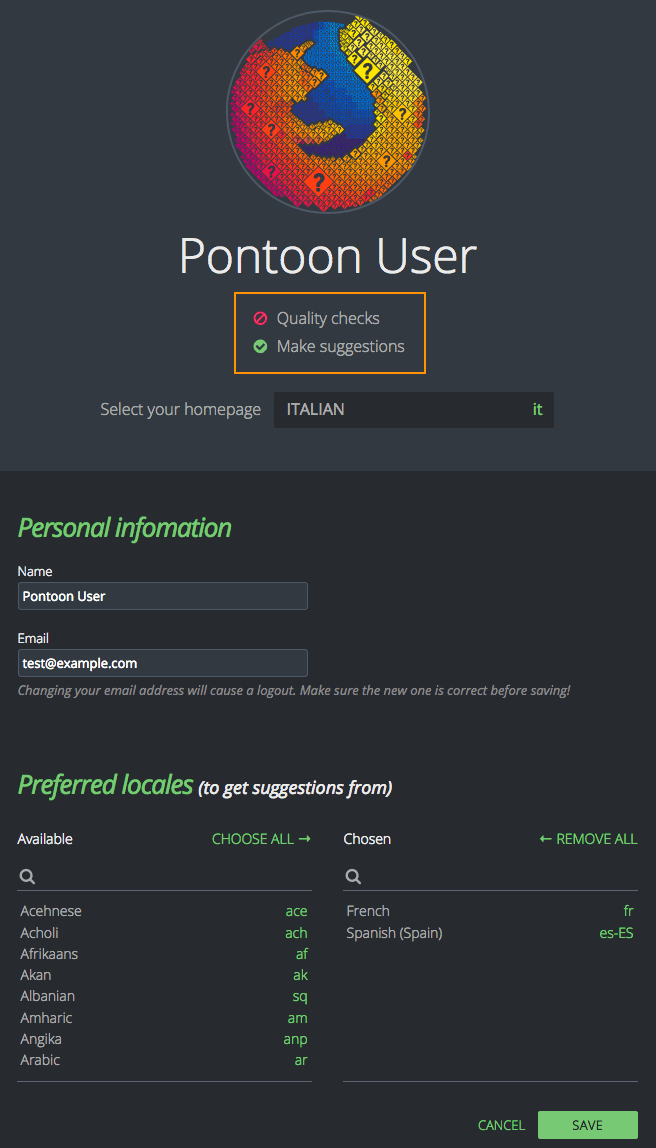
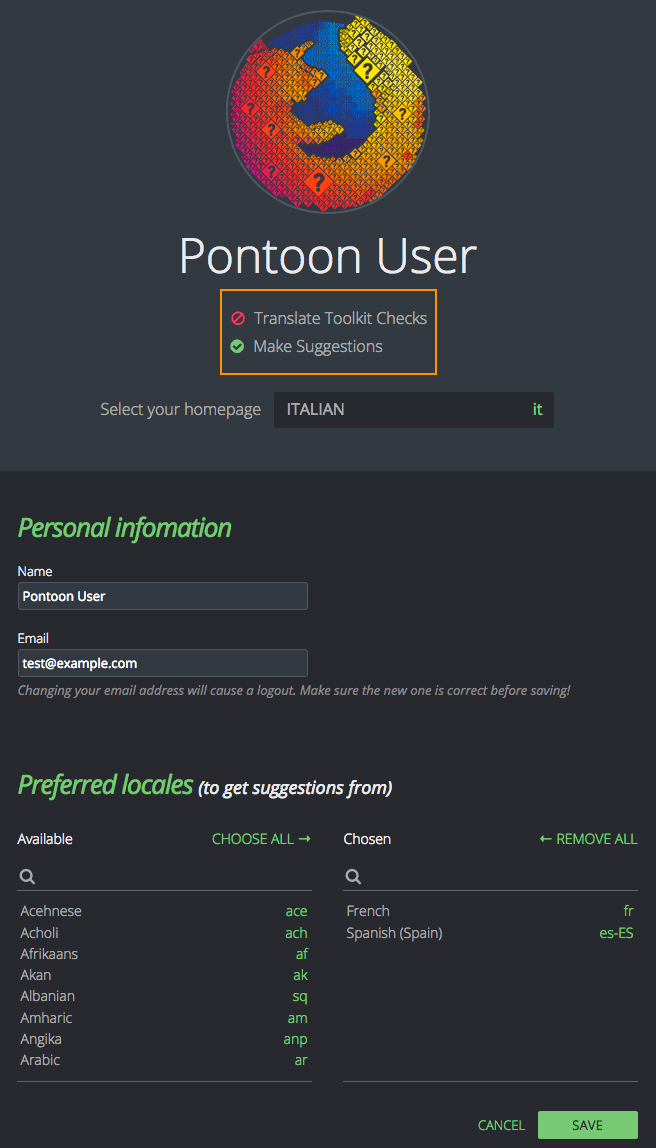
Add documentation for quality checks (bug 1237667)

Changed region(s): [[0.3354, 0.2439, 0.6707, 0.3354], [0.3659, 0.122, 0.3963, 0.1524]]

diff --git a/tools/pontoon/translate.md b/tools/pontoon/translate.md
@@ -32,6 +32,20 @@ A notification will appear in the window, indicating that `Make Suggestions` has
 
 To switch to Review and Direct Translation Mode, go to the settings menu by clicking on the gear and turn off the `Make Suggestions` option. The green `SAVE` button should appear to the lower-right side of the editing space.
 
+## Error and quality checks
+
+When submitting a translation or suggestion, Pontoon can perform two types of automated checks:
+* Translate Toolkit Checks, developed as part of [Translate Toolkit](http://docs.translatehouse.org/projects/translate-toolkit/en/latest/), include controls on punctuation, number of sentences, capitalization, etc. These warnings can be ignored by localizers, since they don’t prevent from submitting a translation, and can be [completely disabled](users.md#user-settings).
+* Internal error checks, mostly based on the [compare-locales library](https://developer.mozilla.org/docs/Mozilla/Projects/compare-locales), include controls on strings exceeding the allowed maximum length, errors related to variables and placeholders, number of plural forms in properties files, etc.
+
+Pontoon’s internal checks can’t be disabled by the user: in case of warnings, indicated by a gray circled X, localizers are still allowed to submit their translation.
+
+![Internal check: warning](/assets/images/pontoon/translate/check_warning.png)
+
+Errors, indicated by a red cicled X, cannot be ignored, and the button to submit translations is removed. This type of errors would cause the string to be ignored, for example removed from the build in case of Firefox, and that’s the reason why Pontoon doesn’t allow to save it.
+
+![Internal check: error](/assets/images/pontoon/translate/check_error.png)
+
 ### Review a suggestion
 
 To review a suggestion, search for unreviewed suggestions or click on a suggested string in the sidebar.

diff --git a/tools/pontoon/ui.md b/tools/pontoon/ui.md
@@ -61,11 +61,11 @@ In the upper section of the workspace, the translator can view the source string
 
 The editing space is located in the lower section of the workspace. The translator can edit the translation or suggestion in the text editor.
 
-To the lower-right side of the workspace, the translator can `COPY` the source string to the editor, `CLEAR` the area where translations are typed, and `SUGGEST` or `SAVE` the translation by clicking the corresponding button.
+To the lower-right side of the workspace, the translator can `COPY` the source string to the editor, `CLEAR` the area where translations are typed, and `SUGGEST` or `SAVE` the translation by clicking the corresponding button. This area is also used to [display warnings and errors](translate.md#error-and-quality-checks) when submitting a translation.
 
 To the lower-left side, a translator can access the workspace settings, keyboard shortcuts, and view the number of characters in the target and source string.
 
-By clicking the gear icon, the translator can activate or deactivate `Quality Checks` or `Make Suggestions` and navigate to their user settings.
+By clicking the gear icon, the translator can activate or deactivate `Translation Toolkit Checks` or `Make Suggestions` and navigate to their user settings.
 
 ![Settings menu](/assets/images/pontoon/ui/settings.png)
 

diff --git a/tools/pontoon/users.md b/tools/pontoon/users.md
@@ -26,8 +26,8 @@ It’s also possible to set the default homepage displayed when visiting Pontoon
 
 ![Pontoon login](/assets/images/pontoon/users/profile_page.png)
 
-Both *Quality checks* and *Make suggestions* are checkboxes. In the picture above *Quality checks* is disabled while *Make suggestions* is enabled.
-* *Quality checks* (check for number of sentences, placeholders, HTML tags, punctuation, etc.) are performed when saving a translation.
+Both *Translation Toolkit Checks* and *Make suggestions* are checkboxes. In the picture above *Translation Toolkit Checks* is disabled while *Make suggestions* is enabled.
+* *Translation Toolkit Checks* (check for number of sentences, placeholders, HTML tags, punctuation, etc.) are performed when saving a translation. For more information about quality checks see [this document](translate.md#error-and-quality-checks).
 * *Make suggestions* allows a translator or a manager to submit suggestions instead of translations.
 
 Both settings can also be changed directly from the gear menu (highlighted in orange) when translating strings. User settings are also accessible from this menu by selecting *Change all settings*.
